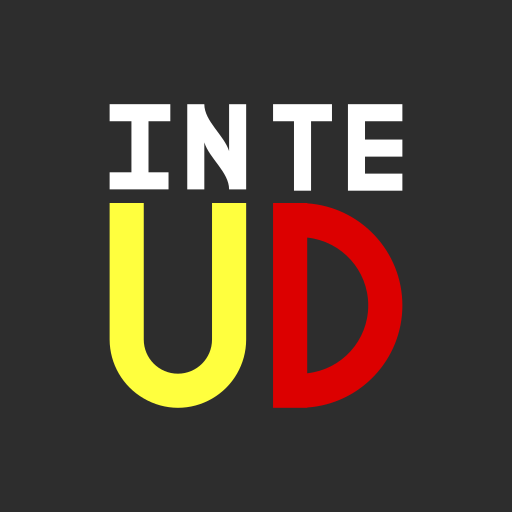
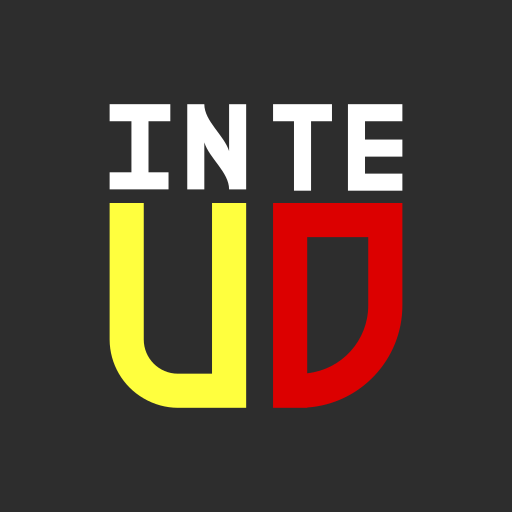
UPDATE: Update workflow

Changed region(s): [[0.5938, 0.375, 0.8125, 0.5625], [0.375, 0.6875, 0.5, 0.8125], [0.375, 0.6875, 0.4375, 0.75]]

diff --git a/README.md b/README.md
@@ -1,6 +1,6 @@
 # **Área de Investigación Tecnológica de la Universidad Distrital**
 
-!["INTEUD"](https://github.com/inteud/hydro/blob/main/public/logo_clean.svg?raw=true "INTEUD LOGO")
+!["INTEUD"](https://github.com/inteud/hydro/blob/main/public/logo.svg "INTEUD LOGO")
 
 **INTEUD** es una iniciativa académica con el fin de incentivar la comunidad estudiantil del area de tecnología de construcciones civiles e ingeniería civil, a investigar y desarrollar productos tecnológicos haciendo uso de software y hardware de vanguardia en sus proyectos academicos.
 
